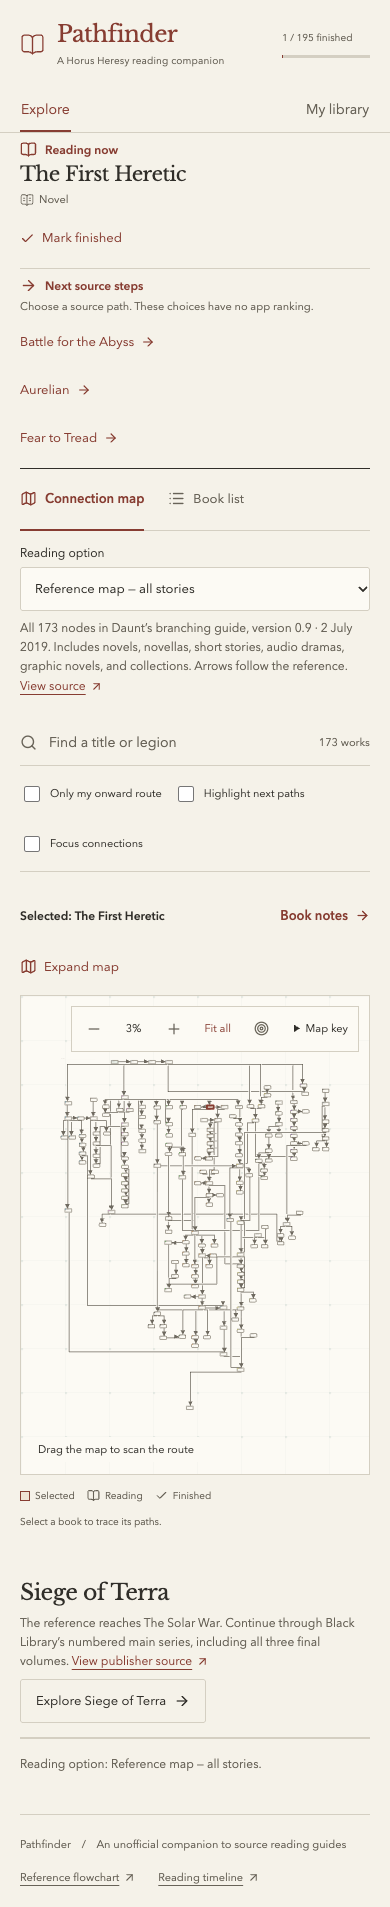
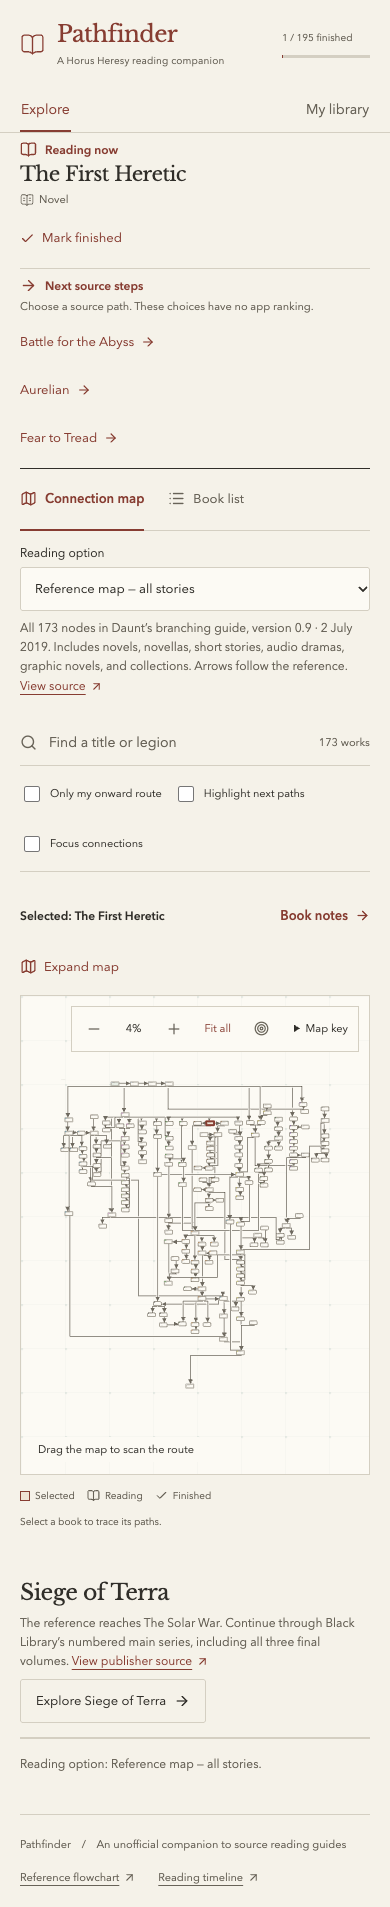
fix: tighten reference map spacing
Reduce horizontal distance by about 15% and vertical distance by 25%.
Keep card sizes and the reference branch arrangement. Leave extra
clearance between the closest audio cards for arrow routing.

Record both spacing trials and update the design metadata. Verify with
37 logic checks, 16 browser checks, and the production build.

Changed region(s): [[0.1538, 0.5569, 0.8615, 0.7425]]

diff --git a/src/reading-options.ts b/src/reading-options.ts
@@ -61,8 +61,8 @@ const referenceCentres = reference.nodes.map((node) => ({
 const referenceLeft = Math.min(...referenceCentres.map((point) => point.x))
 const referenceTop = Math.min(...referenceCentres.map((point) => point.y))
 export const referencePositions = Object.fromEntries(referenceCentres.map((point) => [point.id, {
-  x: 70 + (point.x - referenceLeft) * 2.75,
-  y: 100 + (point.y - referenceTop) * 4,
+  x: 70 + (point.x - referenceLeft) * 2.35 + (point.id === 'the-thirteenth-wolf' ? 26 : 0),
+  y: 100 + (point.y - referenceTop) * 3,
 }]))
 
 const referenceConnections: Connection[] = reference.connections.flatMap((edge) => {

diff --git a/DESIGN.md b/DESIGN.md
@@ -213,7 +213,7 @@ Notes use an italic serif heading and a larger serif book title. Reading actions
 
 ### Story Maps
 
-The Connection map uses sheet surfaces, compact book plates, source colour marks, and a four-book reference opening that runs left to right above the parallel streams. The full reference uses the source node centres, expanded by 2.75 horizontally and 4 vertically to fit the larger cards. Branch positions remain stable across All stories and Novels only. Source arrows may run sideways or join distant branches; their routes avoid card plates. Focus connections uses a compact local layout. Reference arrows and adjacent publisher entries use the same line treatment; the selected source supplies their meaning. Selected, current, finished, and recommended states use borders, fills, and symbols. Cards are 220 by 110 map units, with up to three title lines. Each has a monochrome type symbol and written type label. The full title remains in the accessible label and notes. The Reading option dropdown offers Reference map — all stories, Reference map — novels only, Saga, and Siege. All stories is the default. Novels only filters the map and list without joining across hidden works; a hidden-next-step notice offers Show all stories. Focus connections explicitly reveals all direct neighbours, including works hidden by Novels only. Publication format and availability stay in the notes. Focus connections fits the selected book and its direct incoming and outgoing source links; turning it off restores the full-map position and zoom. Highlight next paths is enabled by default and independently marks outgoing arrows in red and lists their destinations. Highlighted books keep solid plates and clear borders; other plates have reduced fill opacity. The full map opens around the selected book at (90%) when fitting all visible books would reduce the scale below (60%); Fit all provides an overview. Below 30% zoom, arrows and card borders retain thin screen-sized strokes so the branch arrangement remains visible. The map legend explains these marks in plain language. Positions do not define an additional reading order or story arc memberships. The only explicit transition is the flow edge stroke change (180ms ease-out); reduced-motion preferences disable transitions.
+The Connection map uses sheet surfaces, compact book plates, source colour marks, and a four-book reference opening that runs left to right above the parallel streams. The full reference uses the source node centres, expanded by 2.35 horizontally and 3 vertically to fit the larger cards. The Thirteenth Wolf has a 26-unit horizontal clearance adjustment beside Thief of Revelation. Branch positions remain stable across All stories and Novels only. Source arrows may run sideways or join distant branches; their routes avoid card plates. Focus connections uses a compact local layout. Reference arrows and adjacent publisher entries use the same line treatment; the selected source supplies their meaning. Selected, current, finished, and recommended states use borders, fills, and symbols. Cards are 220 by 110 map units, with up to three title lines. Each has a monochrome type symbol and written type label. The full title remains in the accessible label and notes. The Reading option dropdown offers Reference map — all stories, Reference map — novels only, Saga, and Siege. All stories is the default. Novels only filters the map and list without joining across hidden works; a hidden-next-step notice offers Show all stories. Focus connections explicitly reveals all direct neighbours, including works hidden by Novels only. Publication format and availability stay in the notes. Focus connections fits the selected book and its direct incoming and outgoing source links; turning it off restores the full-map position and zoom. Highlight next paths is enabled by default and independently marks outgoing arrows in red and lists their destinations. Highlighted books keep solid plates and clear borders; other plates have reduced fill opacity. The full map opens around the selected book at (90%) when fitting all visible books would reduce the scale below (60%); Fit all provides an overview. Below 30% zoom, arrows and card borders retain thin screen-sized strokes so the branch arrangement remains visible. The map legend explains these marks in plain language. Positions do not define an additional reading order or story arc memberships. The only explicit transition is the flow edge stroke change (180ms ease-out); reduced-motion preferences disable transitions.
 
 ## Do's and Don'ts
 

diff --git a/.impeccable/review/complete-reference/README.md b/.impeccable/review/complete-reference/README.md
@@ -36,3 +36,17 @@ space for readable cards. Arrow bends are recalculated around the cards; their
 endpoints are unchanged. All stories and Novels only keep the same positions.
 The overview uses thin screen-sized strokes below 30% zoom. Focus connections
 keeps the previous compact local arrangement.
+
+## Spacing trial
+
+The first trial used 2.5 horizontally and 3.2 vertically: about 9% and 20%
+less distance than the earlier 2.75 by 4 layout. The central paths still looked
+too spread out at 90% zoom, so a second trial used 2.35 by 3: about 15% less
+horizontal distance and 25% less vertical distance. Card sizes are unchanged.
+The Thirteenth Wolf has a 26-unit horizontal clearance adjustment beside
+Thief of Revelation. Both views retain these positions.
+
+`spacing-first-detail.png` and `spacing-first-overview.png` record the first
+trial. `spacing-detail.png` and `spacing-audio-pair.png` show the final spacing
+at normal zoom. `vertical-overview.png` and `mobile-overview.png` show the
+final full-map arrangement. Phone evidence uses browser viewport emulation.

diff --git a/docs/reference-catalogue.md b/docs/reference-catalogue.md
@@ -75,9 +75,10 @@ position is preserved when another entry is finished.
 
 The source snapshot now retains each node's original bounds. The full map uses
 those centres with additional space for the 220 × 110 cards, expanding the
-horizontal distance by 2.75 and the vertical distance by 4. This preserves the
+horizontal distance by 2.35 and the vertical distance by 3. This preserves the
 original relative branch positions and gives the overview a mainly vertical
-shape. Novels only retains exactly the same positions for its visible works.
+shape. The Thirteenth Wolf is shifted 26 map units to the right to leave room
+beside Thief of Revelation for arrow routing. Novels only retains exactly the same positions for its visible works.
 Arrows retain their source endpoints; their bends are recalculated to avoid the
 larger cards. Focus connections keeps its compact local layout.
 
